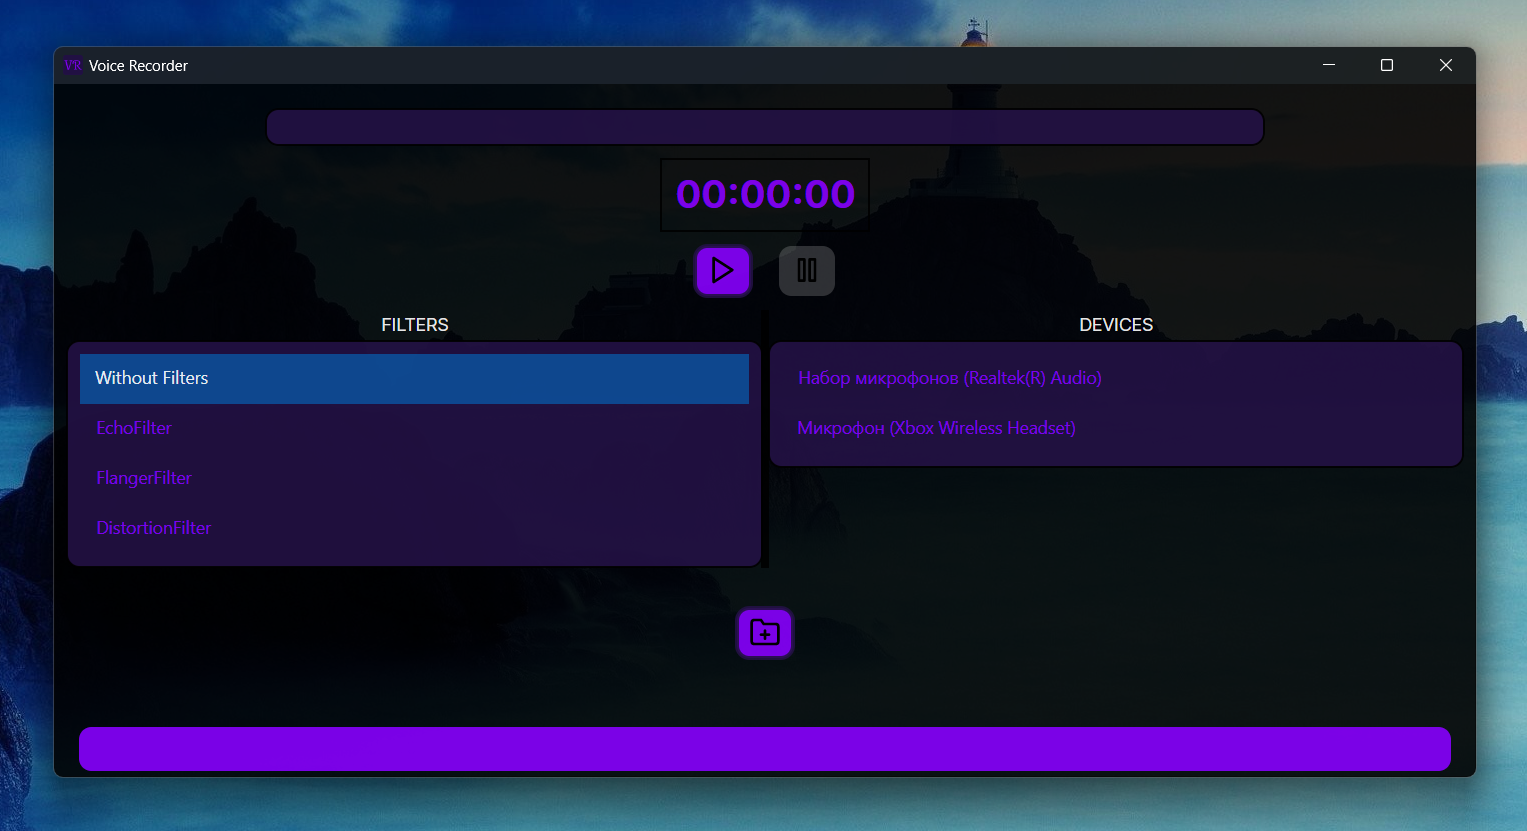
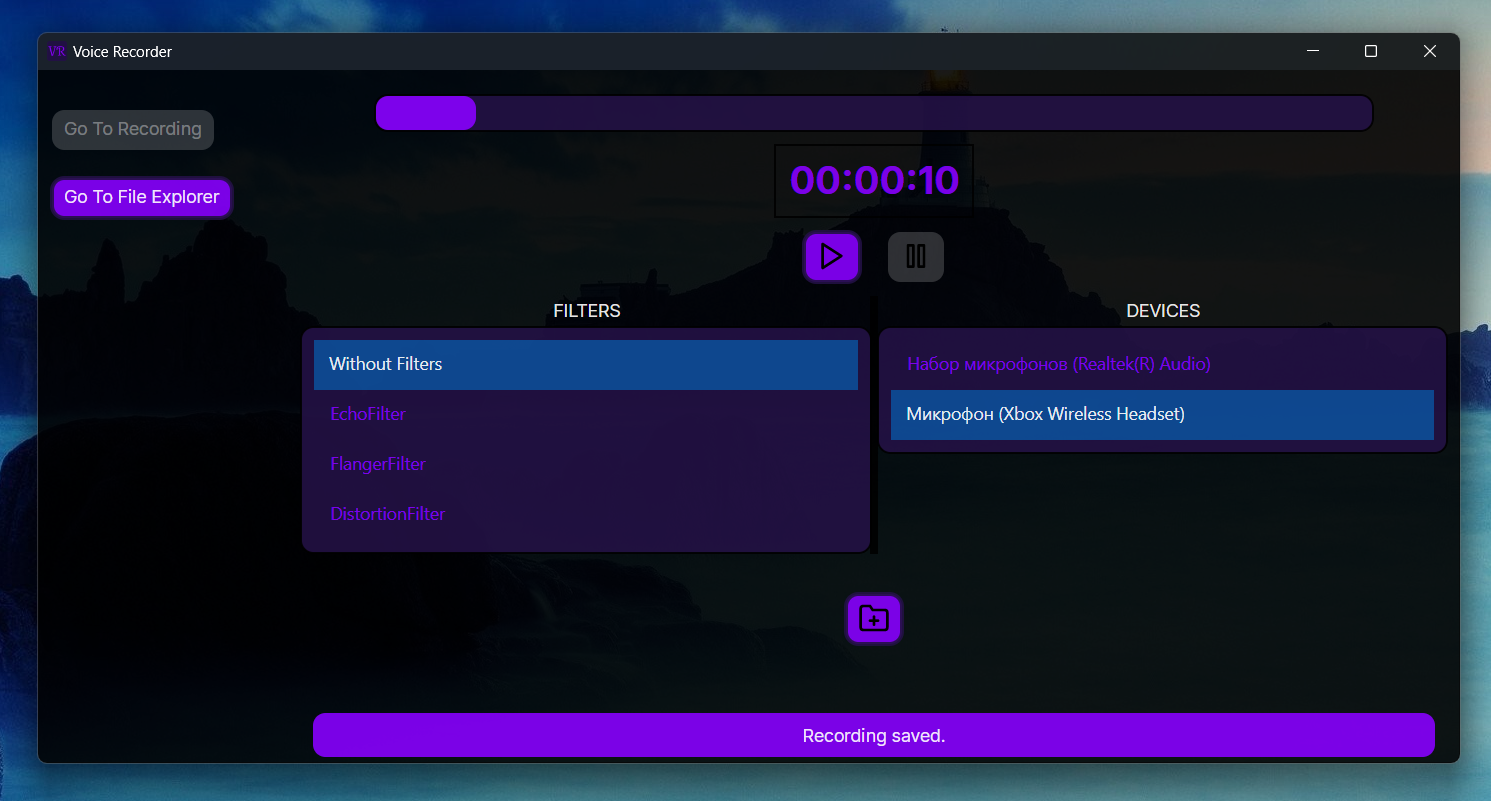
mini fix...

diff --git a/VoiceRecorder/ViewModels/MainWindowViewModel.cs b/VoiceRecorder/ViewModels/MainWindowViewModel.cs
@@ -1,9 +1,8 @@
-using System;
-using System.Collections.Generic;
-using System.IO;
+using System.Collections.Generic;
 using ReactiveUI;
 using VoiceRecorder.Filters;
 using VoiceRecorder.Models;
+using VoiceRecorder.Utils;
 
 namespace VoiceRecorder.ViewModels
 {
@@ -15,6 +14,9 @@ namespace VoiceRecorder.ViewModels
 
         public List<VoiceFilterViewModel> AvailableFilters { get; set; }
         public VoiceFilterViewModel SelectedFilterViewModel { get; set; }
+
+        public bool IsMainWindowActive { get; set; } = false;
+        public bool IsSecondWindowActive { get; set; } = true;
 
         private List<string> _availableDevices;
 
@@ -37,7 +39,11 @@ namespace VoiceRecorder.ViewModels
         public bool IsRecording
         {
             get { return _isRecording; }
-            set { this.RaiseAndSetIfChanged(ref _isRecording, value); }
+            set
+            {
+                this.RaiseAndSetIfChanged(ref _isRecording, value);
+                IsSecondWindowActive = !value;
+            }
         }
 
         public MainWindowViewModel()
@@ -60,16 +66,7 @@ namespace VoiceRecorder.ViewModels
 
         public void StartRecording(string deviceName, VoiceFilterViewModel filterViewModel)
         {
-            string defaultPath = Path.Combine(Environment.GetFolderPath(Environment.SpecialFolder.MyDocuments),
-                "VoiceRecorder");
-            Directory.CreateDirectory(defaultPath);
-
-            string deviceFolderPath = Path.Combine(defaultPath, deviceName);
-            Directory.CreateDirectory(deviceFolderPath);
-
-            string fileName = $"output_{DateTime.Now:yyyyMMdd_HHmmss}.wav";
-            string filePath = Path.Combine(deviceFolderPath, fileName);
-
+            string filePath = AudioFilePathHelper.GenerateAudioFilePath(deviceName);
             var device = Device.SelectDevice(deviceName);
 
             if (filterViewModel != null && filterViewModel.FilterStrategy != null)

diff --git a/VoiceRecorder/Views/MainWindow.axaml.cs b/VoiceRecorder/Views/MainWindow.axaml.cs
@@ -24,11 +24,15 @@ public partial class MainWindow : Window
     private TimeSpan _time;
 
     private readonly TextBlock _buttonTextBlock;
+    
+    public static MainWindow Current { get; private set; }
 
     public MainWindow()
     {
         InitializeComponent();
 
+        Current = this;
+        
         Recorder = new AudioRecorder();
         Device = new AudioDevice();
 
@@ -92,6 +96,7 @@ public partial class MainWindow : Window
 
                 this._buttonTextBlock.Text = $"Recording started.";
                 deviceList.IsEnabled = false;
+                viewModel.IsSecondWindowActive = false;
             }
             else
             {
@@ -120,6 +125,7 @@ public partial class MainWindow : Window
 
             _timer.Stop();
             this._buttonTextBlock.Text = $"Recording saved.";
+            viewModel.IsSecondWindowActive = true;
         }
         catch (Exception ex)
         {
@@ -151,6 +157,28 @@ public partial class MainWindow : Window
         {
             Debug.WriteLine(ex.ToString());
         }
+    }
+    
+    private void NavigateToMainWindow(object sender, RoutedEventArgs e)
+    {
+        viewModel.IsMainWindowActive = false;
+        MainContent.Content = new MainWindow();
+    }
+
+    private void NavigateToSecondWindow(object sender, RoutedEventArgs e)
+    {
+        if (viewModel.IsSecondWindowActive == true)
+        {
+            var secondWindow = new SecondWindow();
+            secondWindow.Show();
+        }
+    }
+    
+    protected override void OnClosed(EventArgs e)
+    {
+        base.OnClosed(e);
+        
+        Current = null;
     }
 
     private void InitializeComponent()

diff --git a/VoiceRecorder/ViewModels/SecondWindowViewModel.cs b/VoiceRecorder/ViewModels/SecondWindowViewModel.cs
@@ -1,0 +1,49 @@
+using System;
+using System.Collections.ObjectModel;
+using System.Diagnostics;
+using System.IO;
+using System.Reactive;
+using ReactiveUI;
+
+namespace VoiceRecorder.ViewModels;
+
+public class SecondWindowViewModel : ViewModelBase
+{
+    public ObservableCollection<string> Folders { get; } = new ObservableCollection<string>();
+    public ObservableCollection<string> Files { get; } = new ObservableCollection<string>();
+    public ReactiveCommand<string, Unit> OpenFileCommand { get; }
+
+    public SecondWindowViewModel()
+    {
+        OpenFileCommand = ReactiveCommand.Create<string>(OpenFile);
+    }
+
+    public void LoadFoldersAndFiles()
+    {
+        string path = Path.Combine(Environment.GetFolderPath(Environment.SpecialFolder.MyDocuments), "VoiceRecorder");
+        int pathLength = path.Length + 1;
+
+        
+        if (!Directory.Exists(path))
+        {
+            Directory.CreateDirectory(path);
+        }
+
+        foreach (var directory in Directory.GetDirectories(path, "*", SearchOption.AllDirectories))
+        {
+            Folders.Add(directory.Substring(pathLength));
+        }
+
+        foreach (var file in Directory.GetFiles(path, "*", SearchOption.AllDirectories))
+        {
+            Files.Add(file.Substring(pathLength));
+        }
+    }
+
+    private void OpenFile(string file)
+    {
+        string path = Path.Combine(Environment.GetFolderPath(Environment.SpecialFolder.MyDocuments), "VoiceRecorder",
+            file);
+        Process.Start(new ProcessStartInfo(path) { UseShellExecute = true });
+    }
+}

diff --git a/VoiceRecorder/Utils/AudioFilePathHelper.cs b/VoiceRecorder/Utils/AudioFilePathHelper.cs
@@ -1,0 +1,22 @@
+using System;
+using System.IO;
+
+namespace VoiceRecorder.Utils;
+
+public static class AudioFilePathHelper
+{
+    public static string GenerateAudioFilePath(string deviceName)
+    {
+        string defaultPath = Path.Combine(Environment.GetFolderPath(Environment.SpecialFolder.MyDocuments),
+            "VoiceRecorder");
+        Directory.CreateDirectory(defaultPath);
+
+        string deviceFolderPath = Path.Combine(defaultPath, deviceName);
+        Directory.CreateDirectory(deviceFolderPath);
+
+        string fileName = $"output_{DateTime.Now:yyyyMMdd_HHmmss}.wav";
+        string filePath = Path.Combine(deviceFolderPath, fileName);
+
+        return filePath;
+    }
+}

diff --git a/VoiceRecorder/Utils/CommandProvider.cs b/VoiceRecorder/Utils/CommandProvider.cs
@@ -1,0 +1,21 @@
+using System.Windows.Input;
+using Avalonia;
+using Avalonia.Controls;
+
+namespace VoiceRecorder.Utils;
+
+public class CommandProvider
+{
+    public static readonly AttachedProperty<ICommand> OpenFileCommandProperty =
+        AvaloniaProperty.RegisterAttached<CommandProvider, Control, ICommand>("OpenFileCommand");
+
+    public static void SetOpenFileCommand(Control element, ICommand value)
+    {
+        element.SetValue(OpenFileCommandProperty, value);
+    }
+
+    public static ICommand GetOpenFileCommand(Control element)
+    {
+        return element.GetValue(OpenFileCommandProperty);
+    }
+}

diff --git a/VoiceRecorder/Views/SecondWindow.axaml.cs b/VoiceRecorder/Views/SecondWindow.axaml.cs
@@ -1,0 +1,26 @@
+using System;
+using System.Diagnostics;
+using System.IO;
+using Avalonia;
+using Avalonia.Controls;
+using Avalonia.Interactivity;
+using Avalonia.Markup.Xaml;
+using VoiceRecorder.ViewModels;
+
+namespace VoiceRecorder.Views;
+
+public partial class SecondWindow : Window
+{
+    public SecondWindow()
+    {
+        InitializeComponent();
+        var viewModel = new SecondWindowViewModel();
+        DataContext = viewModel;
+        viewModel.LoadFoldersAndFiles();
+    }
+
+    private void InitializeComponent()
+    {
+        AvaloniaXamlLoader.Load(this);
+    }
+}
